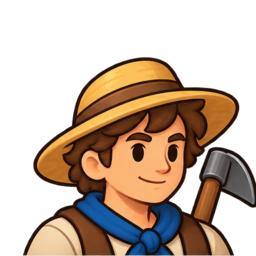
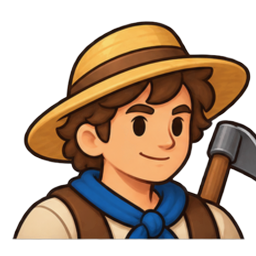
fix(art): the villager's bust sits at the troops' eye height
Its hat put the face 27px lower in the square than a helmet does, so in a
round portrait it sank to the frame's foot. Scaled ×1.1 about the bottom
centre and raised 16px, its eyes now line up with every soldier's.

diff --git a/Docs/art/portraits/unit-blocks.md b/Docs/art/portraits/unit-blocks.md
@@ -185,6 +185,10 @@ magick villager.png -trim +repage -resize x706 -background none \
 python3 Docs/art/portraits/bust.py villager.png src/render/assets/unit_villager_avatar.png
 ```
 
+The hat puts the villager's face lower in `bust.py`'s square than a helmet
+does, so the bust is then scaled ×1.1 about its bottom centre and raised
+16px, which brings its eyes level with the troops' (§2).
+
 `src/ui/styles/screens/portraits.css` already lists `unit_villager`, so the
 smooth render is not pixelated on landing.
 
